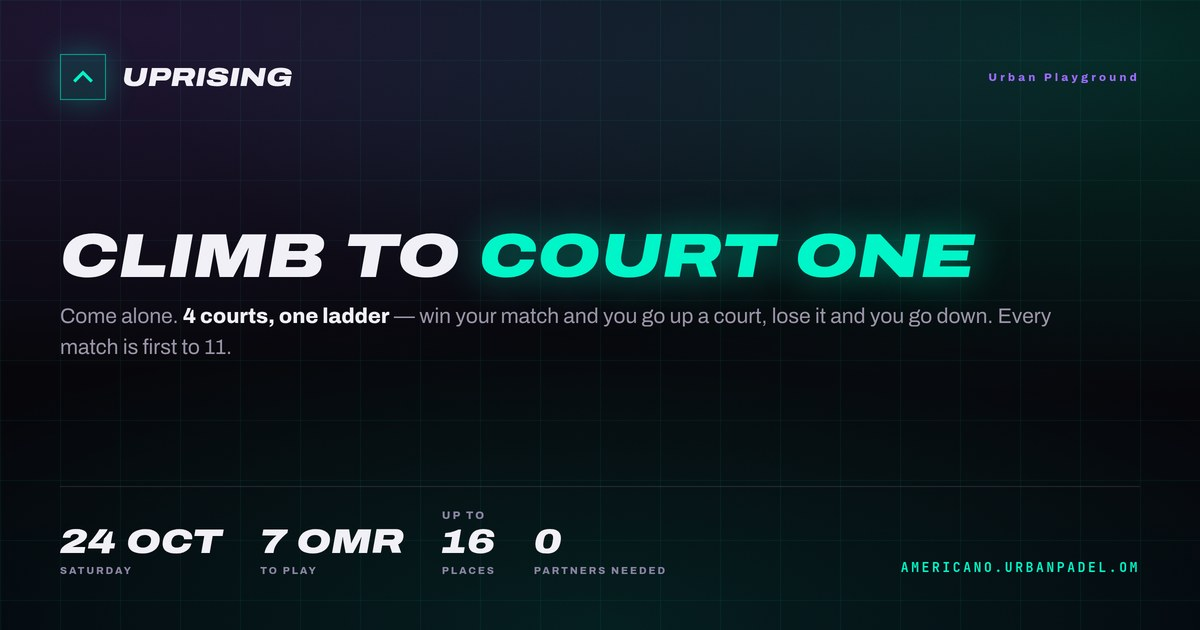
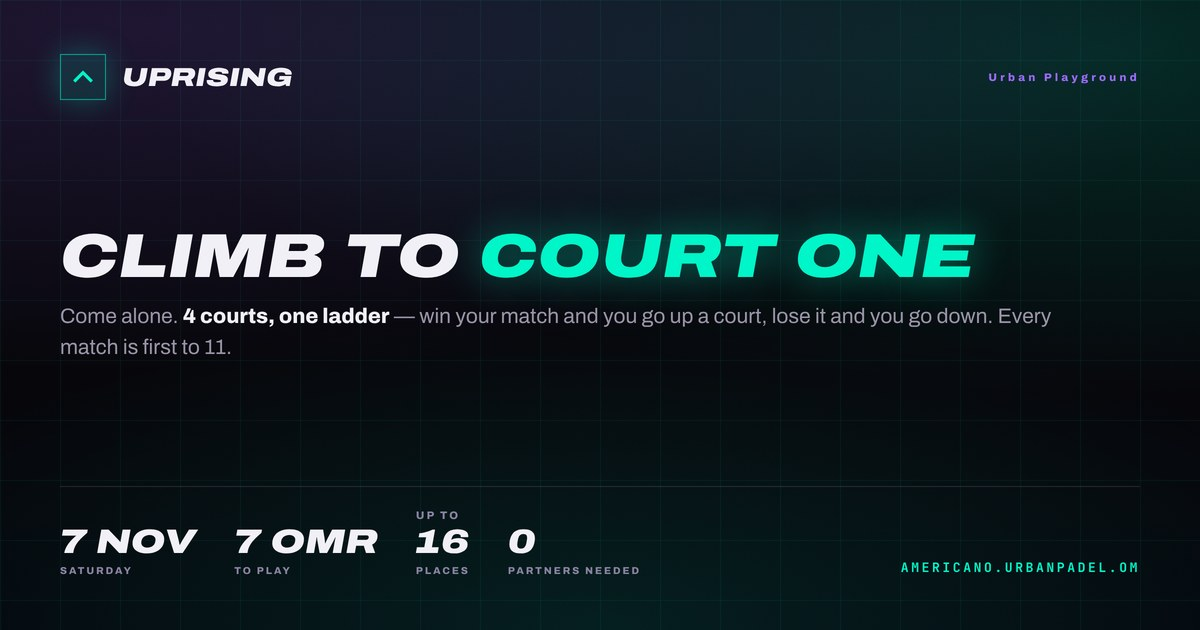
The UPRISING date rolls itself
The link preview was twelve days stale: WhatsApp was unfurling "Sat 24 Oct"
in November, because `date` in uprising-social.json is the next night and
somebody has to remember to retype it after every Saturday.

On a weekly cadence that is a fact about the calendar, so the builder
works it out. It rolls in CADENCE-SIZED STEPS FROM THE STORED ANCHOR
rather than asking "when is the next Saturday" — that keeps the weekday
without parsing `cadenceLine`, which is English prose and the wrong thing
to compute from. A date still in the future is left alone, so pinning a
one-off (a week skipped, a night moved) still works: set it and it is
respected until it passes.

Checked across the boundary rather than assumed: Friday says TOMORROW,
Saturday says TONIGHT, Sunday rolls to the next one, and it crosses the
year end correctly.

DERIVING IT IS NOT ENOUGH ON ITS OWN, which is the part worth recording.
The preview is `og:` tags baked into the deployed HTML — a crawler reads
the source, so no client-side cleverness can refresh it and the page has
to be rebuilt and redeployed for the date to change at all. So
ops/roll-uprising-date.sh does the whole chain and a weekly routine runs
it on Sunday mornings.

The script is idempotent and quiet: if the rebuild produces the same bytes
it deploys nothing and says so. It refuses to run on a Saturday afternoon
or evening Muscat time, because that is when a night is played and the app
[…]

Changed region(s): [[0.0308, 0.8143, 0.555, 0.9349]]

diff --git a/americano-index.html b/americano-index.html
@@ -43,8 +43,8 @@
 <meta property="og:site_name" content="Urban Playground" />
 <meta property="og:url" content="https://americano.urbanpadel.om/" />
 <meta property="og:title" content="UPRISING — Climb to Court One" />
-<meta property="og:description" content="Come alone, no partner needed. 4 courts, one ladder: win and you go up a court, lose and you go down. Sat 24 Oct · 7 OMR · up to 16 places." />
-<meta property="og:image" content="https://americano.urbanpadel.om/og-card.jpg?v=66b03f330e" />
+<meta property="og:description" content="Come alone, no partner needed. 4 courts, one ladder: win and you go up a court, lose and you go down. Sat 7 Nov · 7 OMR · up to 16 places." />
+<meta property="og:image" content="https://americano.urbanpadel.om/og-card.jpg?v=2457f3cc5e" />
 <meta property="og:image:width" content="1200" />
 <meta property="og:image:height" content="630" />
 <meta property="og:image:alt" content="UPRISING — climb to court one. 4 courts, one ladder." />
@@ -3085,8 +3085,8 @@ function Admin({ guests, newName, setNewName, onAdd, onRename, onDelete }) {
 // below, exactly as the RULES screen reads them, so this page cannot advertise
 // a number the scoring contradicts.
 const UP_NEXT = {
-  date: "2026-10-24",
-  dateLabel: "Sat 24 Oct",
+  date: "2026-11-07",
+  dateLabel: "Sat 7 Nov",
   entry: "7 OMR",
   cap: 16,
   courts: 4,

diff --git a/brand/uprising/posts/post-1-hero.html b/brand/uprising/posts/post-1-hero.html
@@ -73,8 +73,8 @@
        partner almost every round, and the court you are standing on is your position.</p>
   </div>
   <div class="when">
-    <div class="day disp">TOMORROW</div>
-    <div class="dl">SAT 24 OCT &nbsp;·&nbsp; NO PARTNER NEEDED</div>
+    <div class="day disp">7 NOV</div>
+    <div class="dl">SAT 7 NOV &nbsp;·&nbsp; NO PARTNER NEEDED</div>
   </div>
   <div class="foot">
     <div style="display:flex;gap:40px;align-items:flex-end">
@@ -82,7 +82,7 @@
       <span class="fact"><b class="disp"><u>Up to</u>11</b><i>Matches each</i></span>
       <span class="fact"><b class="disp">7 OMR</b><i>To play</i></span>
     </div>
-    <span class="host">AMERICANO.URBANPADEL.OM<small>COME ALONE. LEAVE WITH TEN.</small></span>
+    <span class="host">AMERICANO.URBANPADEL.OM<small>COME ALONE. LEAVE WITH ELEVEN.</small></span>
   </div>
 </div>
 </body></html>

diff --git a/brand/uprising/posts/story-2-ladder.html b/brand/uprising/posts/story-2-ladder.html
@@ -104,6 +104,6 @@
           <span class="pts"><b>6</b><i> / 3</i></span></div><div class="rung"><span class="cn">COURT 3</span><span class="note">A win here is worth a loss on Court 1.</span>
           <span class="pts"><b>4</b><i> / 2</i></span></div><div class="rung"><span class="cn">COURT 4</span><span class="note">The bottom. Only one way to go.</span>
           <span class="pts"><b>2</b><i> / 1</i></span></div></div>
-  <div class="hostline"><span class="host">SAT 24 OCT &nbsp;·&nbsp; AMERICANO.URBANPADEL.OM</span></div>
+  <div class="hostline"><span class="host">SAT 7 NOV &nbsp;·&nbsp; AMERICANO.URBANPADEL.OM</span></div>
 </div>
 </body></html>

diff --git a/brand/uprising/posts/story-1-name.html b/brand/uprising/posts/story-1-name.html
@@ -104,9 +104,9 @@
        and a different partner almost every round.</p>
   </div>
   <div class="when">
-    <div class="day disp">TOMORROW</div>
-    <div class="dl">SAT 24 OCT &nbsp;·&nbsp; NO PARTNER NEEDED</div>
+    <div class="day disp">7 NOV</div>
+    <div class="dl">SAT 7 NOV &nbsp;·&nbsp; NO PARTNER NEEDED</div>
   </div>
-  <div class="hostline"><span class="host">AMERICANO.URBANPADEL.OM<small>COME ALONE. LEAVE WITH TEN.</small></span></div>
+  <div class="hostline"><span class="host">AMERICANO.URBANPADEL.OM<small>COME ALONE. LEAVE WITH ELEVEN.</small></span></div>
 </div>
 </body></html>

diff --git a/brand/uprising/posts/story-5-claim.html b/brand/uprising/posts/story-5-claim.html
@@ -112,7 +112,7 @@
        waitlist, and places go faster than they come back.</p>
   </div>
   <div class="card">
-    <div class="row"><span class="k">When</span><span class="v">TOMORROW · SAT 24 OCT</span></div>
+    <div class="row"><span class="k">When</span><span class="v">7 NOV · SAT 7 NOV</span></div>
     <div class="row"><span class="k">Entry</span><span class="v">7 OMR</span></div>
     <div class="row"><span class="k">Places</span><span class="v">Up to 16</span></div>
     <div class="row"><span class="k">Partner</span><span class="v">Not needed</span></div>

diff --git a/brand/uprising/posts/og-card.html b/brand/uprising/posts/og-card.html
@@ -65,7 +65,7 @@
   </div>
   <div class="foot">
     <div style="display:flex;gap:38px;align-items:flex-end">
-      <span class="fact"><b class="disp">24 OCT</b><i>SATURDAY</i></span>
+      <span class="fact"><b class="disp">7 NOV</b><i>SATURDAY</i></span>
       <span class="fact"><b class="disp">7 OMR</b><i>To play</i></span>
       <span class="fact"><b class="disp"><u>Up to</u>16</b><i>Places</i></span>
       <span class="fact"><b class="disp">0</b><i>Partners needed</i></span>

diff --git a/brand/uprising/posts/post-4-prizes.html b/brand/uprising/posts/post-4-prizes.html
@@ -89,7 +89,7 @@
     <div style="display:flex;gap:40px;align-items:flex-end">
       <span class="fact"><b class="disp">7 OMR</b><i>To play</i></span>
       <span class="fact"><b class="disp"><u>Up to</u>16</b><i>Places</i></span>
-      <span class="fact"><b class="disp">24 OCT</b><i>SATURDAY</i></span>
+      <span class="fact"><b class="disp">7 NOV</b><i>SATURDAY</i></span>
     </div>
     <span class="host">WHATSAPP THE CLUB<small>AMERICANO.URBANPADEL.OM</small></span>
   </div>

diff --git a/landing/index.html b/landing/index.html
@@ -470,7 +470,7 @@
   <a href="https://americano.urbanpadel.om" class="up tick">
     <div class="glow"></div>
     <div class="head">
-      <span class="kick"><i></i><!--UP:WHEN-->TOMORROW · SAT 24 OCT<!--/UP:WHEN--></span>
+      <span class="kick"><i></i><!--UP:WHEN-->SAT 7 NOV<!--/UP:WHEN--></span>
       <span class="stamp">NEW</span>
     </div>
     <div class="upmark">UPRISING</div>

diff --git a/brand/uprising/posts/story-3-match.html b/brand/uprising/posts/story-3-match.html
@@ -129,6 +129,6 @@
       <span class="val">1&#8211;8</span>
       <span class="exp">What the court pays. Decides <b>the night</b>.</span></div>
   </div>
-  <div class="hostline"><span class="host">SAT 24 OCT &nbsp;·&nbsp; AMERICANO.URBANPADEL.OM</span></div>
+  <div class="hostline"><span class="host">SAT 7 NOV &nbsp;·&nbsp; AMERICANO.URBANPADEL.OM</span></div>
 </div>
 </body></html>

diff --git a/brand/uprising/posts/story-4-prizes.html b/brand/uprising/posts/story-4-prizes.html
@@ -126,6 +126,6 @@
         <span class="d">Worth twice the points, so the night is not over until it is. One in three is decided there.</span></div>
     </div>
   </div>
-  <div class="hostline"><span class="host">7 OMR TO PLAY &nbsp;·&nbsp; SAT 24 OCT</span></div>
+  <div class="hostline"><span class="host">7 OMR TO PLAY &nbsp;·&nbsp; SAT 7 NOV</span></div>
 </div>
 </body></html>

diff --git a/build-uprising-announce.py b/build-uprising-announce.py
@@ -37,13 +37,31 @@ F = json.loads(subprocess.check_output(
 # toISOString() — the server runs UTC and Oman is UTC+4, which has silently
 # moved a date back a day in this repo before.
 y, m, d = (int(x) for x in S["date"].split("-"))
-DT = datetime.date(y, m, d)
+_ANCHOR = datetime.date(y, m, d)
+_TODAY = datetime.date.today()
+# THE DATE ROLLS ITSELF. `date` is the NEXT night, and on a weekly cadence
+# that is a fact about the calendar, not something anybody should have to
+# remember to retype — it went twelve days stale and the WhatsApp link
+# preview was still advertising Sat 24 Oct in November.
+# Rolling in CADENCE-SIZED STEPS FROM THE STORED ANCHOR rather than asking
+# "when is the next Saturday" keeps the weekday without parsing
+# `cadenceLine`, which is English prose and the wrong thing to compute from.
+# A date still in the future is left exactly as it is, so pinning a one-off
+# (a week skipped, a night moved) still works: set it and it is respected
+# until it passes.
+DT = _ANCHOR
+if S.get("cadence") == "weekly":
+    while DT < _TODAY:
+        DT += datetime.timedelta(days=7)
+NIGHT_ISO = DT.isoformat()
+if DT != _ANCHOR:
+    print(f"  date rolled forward: {_ANCHOR} -> {NIGHT_ISO} "
+          f"({(DT - _ANCHOR).days // 7} week(s) of {S.get('cadence')} cadence)")
 DAY = DT.strftime("%A").upper()
 # Announced the night before, so the date block says TOMORROW while that is
 # true — it is the most persuasive word available and it expires by itself.
 # Computed from the real clock, not hardcoded, so a rebuild on the day says
 # TONIGHT and a rebuild after it says the date.
-_TODAY = datetime.date.today()
 WHEN = ("TONIGHT" if DT == _TODAY
         else "TOMORROW" if DT == _TODAY + datetime.timedelta(days=1)
         else f'{DT.day} {DT.strftime("%b").upper()}')
@@ -700,7 +718,7 @@ if len(OG_DESC) > 150:
 NEXT_START = "const UP_NEXT = {"
 NEXT_END = "// ═══ END UPRISING NEXT NIGHT"
 NEXT = ("const UP_NEXT = {\n"
-        f'  date: "{S["date"]}",\n'
+        f'  date: "{NIGHT_ISO}",\n'
         f'  dateLabel: "{DATE_SHORT.title()}",\n'
         f'  entry: "{S["entry"]} {CUR}",\n'
         f'  cap: {S["cap"]},\n'
